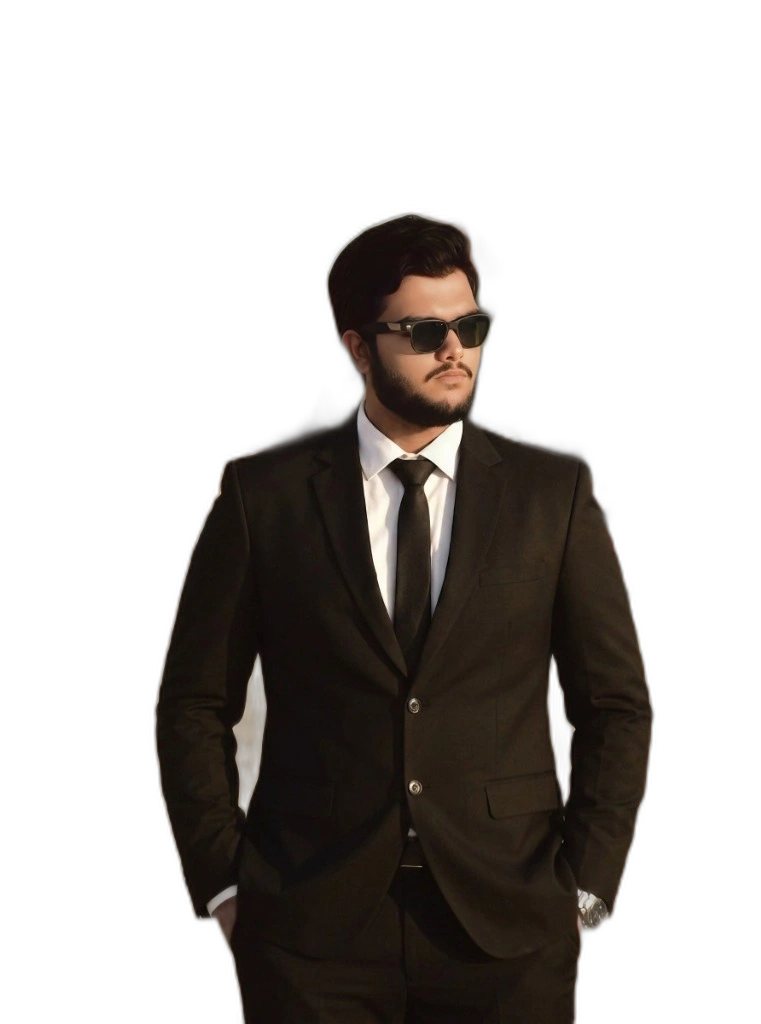
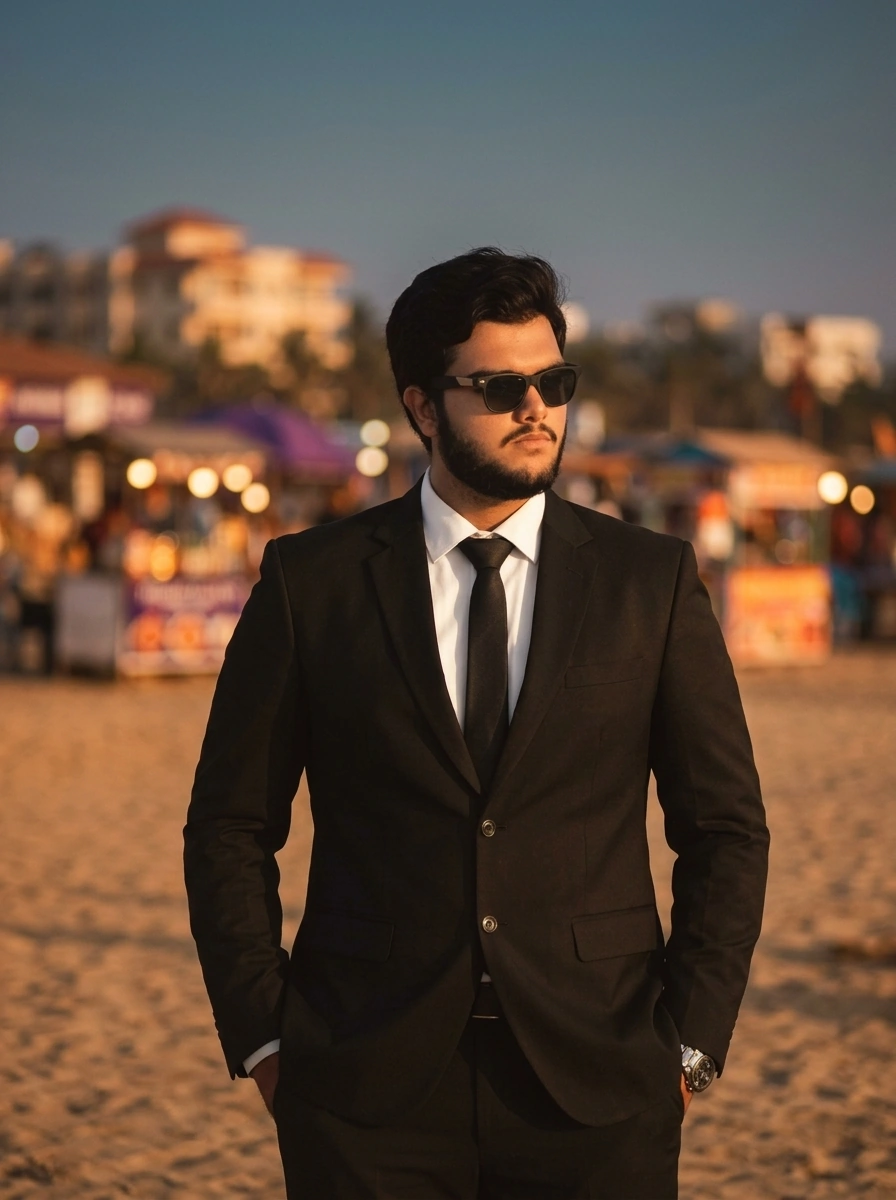
feat: update portrait with full-background high-res image & embossed card styling

diff --git a/public/style.css b/public/style.css
@@ -588,21 +588,35 @@ ul {
     100% { transform: translate(-50%, -50%) rotate(360deg); }
 }
 
-/* Portrait Frame with smooth bottom gradient fade */
-.portrait-frame {
+/* Embossed Portrait Card with 3D tilt angle */
+.portrait-card {
     position: relative;
     z-index: 2;
     width: 100%;
     display: flex;
     justify-content: center;
     align-items: flex-end;
-    -webkit-mask-image: linear-gradient(to bottom, rgba(0, 0, 0, 1) 0%, rgba(0, 0, 0, 1) 72%, rgba(0, 0, 0, 0.05) 96%, rgba(0, 0, 0, 0) 100%);
-    mask-image: linear-gradient(to bottom, rgba(0, 0, 0, 1) 0%, rgba(0, 0, 0, 1) 72%, rgba(0, 0, 0, 0.05) 96%, rgba(0, 0, 0, 0) 100%);
-    transition: transform var(--transition-normal);
+    transform: rotate(-2deg);
+    transition: transform 0.3s ease, box-shadow 0.3s ease;
+    border-radius: 1rem;
+    overflow: hidden;
+    border: 1px solid rgba(255, 255, 255, 0.1);
+    box-shadow:
+        0 25px 50px -12px rgba(0, 0, 0, 0.6),
+        0 12px 24px -8px rgba(0, 0, 0, 0.4),
+        0 0 0 1px rgba(255, 255, 255, 0.05),
+        inset 0 1px 0 rgba(255, 255, 255, 0.08);
+    background: linear-gradient(135deg, rgba(255, 255, 255, 0.03), rgba(255, 255, 255, 0.01));
 }
 
-.portrait-frame:hover {
-    transform: translateY(-4px);
+.portrait-card:hover {
+    transform: rotate(0deg) translateY(-6px);
+    box-shadow:
+        0 35px 60px -15px rgba(0, 0, 0, 0.65),
+        0 15px 30px -8px rgba(0, 0, 0, 0.45),
+        0 0 40px rgba(79, 70, 229, 0.15),
+        0 0 0 1px rgba(255, 255, 255, 0.08),
+        inset 0 1px 0 rgba(255, 255, 255, 0.1);
 }
 
 .portrait-img {
@@ -610,9 +624,10 @@ ul {
     max-width: 380px;
     height: auto;
     max-height: 520px;
-    object-fit: contain;
+    object-fit: cover;
     display: block;
-    filter: drop-shadow(0 15px 35px rgba(0, 0, 0, 0.6));
+    image-rendering: -webkit-optimize-contrast;
+    image-rendering: high-quality;
 }
 
 /* Floating Executive Badge */

diff --git a/style.css b/style.css
@@ -588,21 +588,35 @@ ul {
     100% { transform: translate(-50%, -50%) rotate(360deg); }
 }
 
-/* Portrait Frame with smooth bottom gradient fade */
-.portrait-frame {
+/* Embossed Portrait Card with 3D tilt angle */
+.portrait-card {
     position: relative;
     z-index: 2;
     width: 100%;
     display: flex;
     justify-content: center;
     align-items: flex-end;
-    -webkit-mask-image: linear-gradient(to bottom, rgba(0, 0, 0, 1) 0%, rgba(0, 0, 0, 1) 72%, rgba(0, 0, 0, 0.05) 96%, rgba(0, 0, 0, 0) 100%);
-    mask-image: linear-gradient(to bottom, rgba(0, 0, 0, 1) 0%, rgba(0, 0, 0, 1) 72%, rgba(0, 0, 0, 0.05) 96%, rgba(0, 0, 0, 0) 100%);
-    transition: transform var(--transition-normal);
+    transform: rotate(-2deg);
+    transition: transform 0.3s ease, box-shadow 0.3s ease;
+    border-radius: 1rem;
+    overflow: hidden;
+    border: 1px solid rgba(255, 255, 255, 0.1);
+    box-shadow:
+        0 25px 50px -12px rgba(0, 0, 0, 0.6),
+        0 12px 24px -8px rgba(0, 0, 0, 0.4),
+        0 0 0 1px rgba(255, 255, 255, 0.05),
+        inset 0 1px 0 rgba(255, 255, 255, 0.08);
+    background: linear-gradient(135deg, rgba(255, 255, 255, 0.03), rgba(255, 255, 255, 0.01));
 }
 
-.portrait-frame:hover {
-    transform: translateY(-4px);
+.portrait-card:hover {
+    transform: rotate(0deg) translateY(-6px);
+    box-shadow:
+        0 35px 60px -15px rgba(0, 0, 0, 0.65),
+        0 15px 30px -8px rgba(0, 0, 0, 0.45),
+        0 0 40px rgba(79, 70, 229, 0.15),
+        0 0 0 1px rgba(255, 255, 255, 0.08),
+        inset 0 1px 0 rgba(255, 255, 255, 0.1);
 }
 
 .portrait-img {
@@ -610,9 +624,10 @@ ul {
     max-width: 380px;
     height: auto;
     max-height: 520px;
-    object-fit: contain;
+    object-fit: cover;
     display: block;
-    filter: drop-shadow(0 15px 35px rgba(0, 0, 0, 0.6));
+    image-rendering: -webkit-optimize-contrast;
+    image-rendering: high-quality;
 }
 
 /* Floating Executive Badge */

diff --git a/index.html b/index.html
@@ -149,8 +149,8 @@
                     <div class="portrait-stage">
                         <div class="portrait-ambient-glow"></div>
                         <div class="portrait-tech-ring"></div>
-                        <div class="portrait-frame">
-                            <img src="assets/images/raiyan-portrait.webp" alt="Raiyan Ahmed Rahat — Founder &amp; CEO at NexusCraft" class="portrait-img" loading="eager">
+                        <div class="portrait-card">
+                            <img src="assets/images/raiyan-portrait.webp" alt="Raiyan Ahmed Rahat — Founder &amp; CEO at NexusCraft" class="portrait-img" width="600" height="750" loading="eager" fetchpriority="high" decoding="async">
                         </div>
                         <div class="portrait-floating-badge glass-card">
                             <div class="badge-status-dot"></div>

diff --git a/public/index.html b/public/index.html
@@ -149,8 +149,8 @@
                     <div class="portrait-stage">
                         <div class="portrait-ambient-glow"></div>
                         <div class="portrait-tech-ring"></div>
-                        <div class="portrait-frame">
-                            <img src="assets/images/raiyan-portrait.webp" alt="Raiyan Ahmed Rahat — Founder &amp; CEO at NexusCraft" class="portrait-img" loading="eager">
+                        <div class="portrait-card">
+                            <img src="assets/images/raiyan-portrait.webp" alt="Raiyan Ahmed Rahat — Founder &amp; CEO at NexusCraft" class="portrait-img" width="600" height="750" loading="eager" fetchpriority="high" decoding="async">
                         </div>
                         <div class="portrait-floating-badge glass-card">
                             <div class="badge-status-dot"></div>
